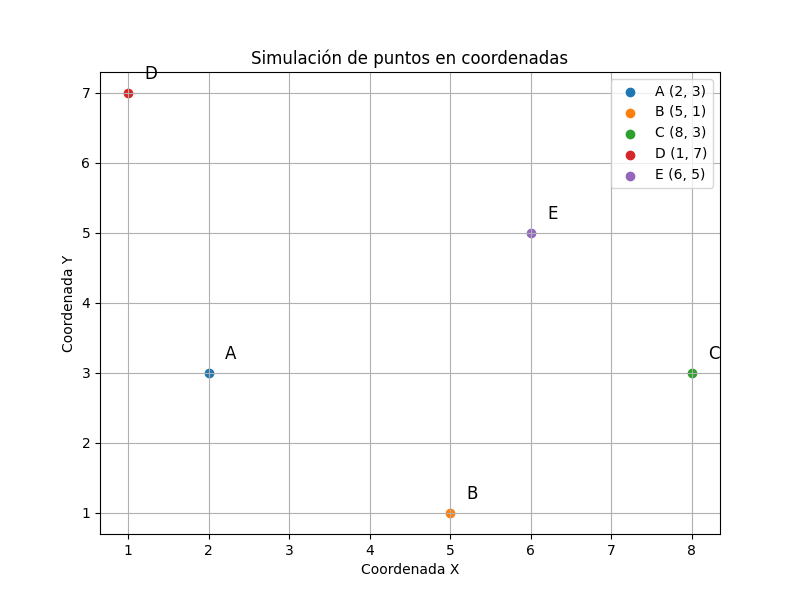
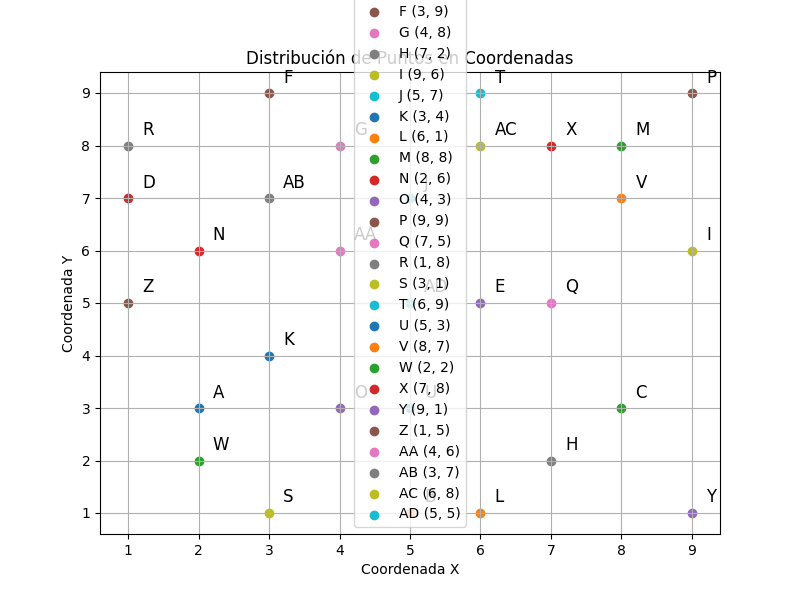
Agregado código para calcular distancias entre 30 puntos

diff --git a/practica1/matriz.py b/practica1/matriz.py
@@ -9,7 +9,32 @@ puntos = {
     "B": (5, 1),
     "C": (8, 3),
     "D": (1, 7),
-    "E": (6, 5)
+    "E": (6, 5),
+    "F": (3, 9),
+    "G": (4, 8),
+    "H": (7, 2),
+    "I": (9, 6),
+    "J": (5, 7),
+    "K": (3, 4),
+    "L": (6, 1),
+    "M": (8, 8),
+    "N": (2, 6),
+    "O": (4, 3),
+    "P": (9, 9),
+    "Q": (7, 5),
+    "R": (1, 8),
+    "S": (3, 1),
+    "T": (6, 9),
+    "U": (5, 3),
+    "V": (8, 7),
+    "W": (2, 2),
+    "X": (7, 8),
+    "Y": (9, 1),
+    "Z": (1, 5),
+    "AA": (4, 6),
+    "AB": (3, 7),
+    "AC": (6, 8),
+    "AD": (5, 5)
 }
 
 # Extraer nombres y coordenadas de los puntos
@@ -59,4 +84,4 @@ plt.title("Distribución de Puntos en Coordenadas")
 plt.legend()
 plt.grid(True)
 #plt.show()
-plt.savafig("Grafico.png")
+plt.savefig("Grafico.png")
